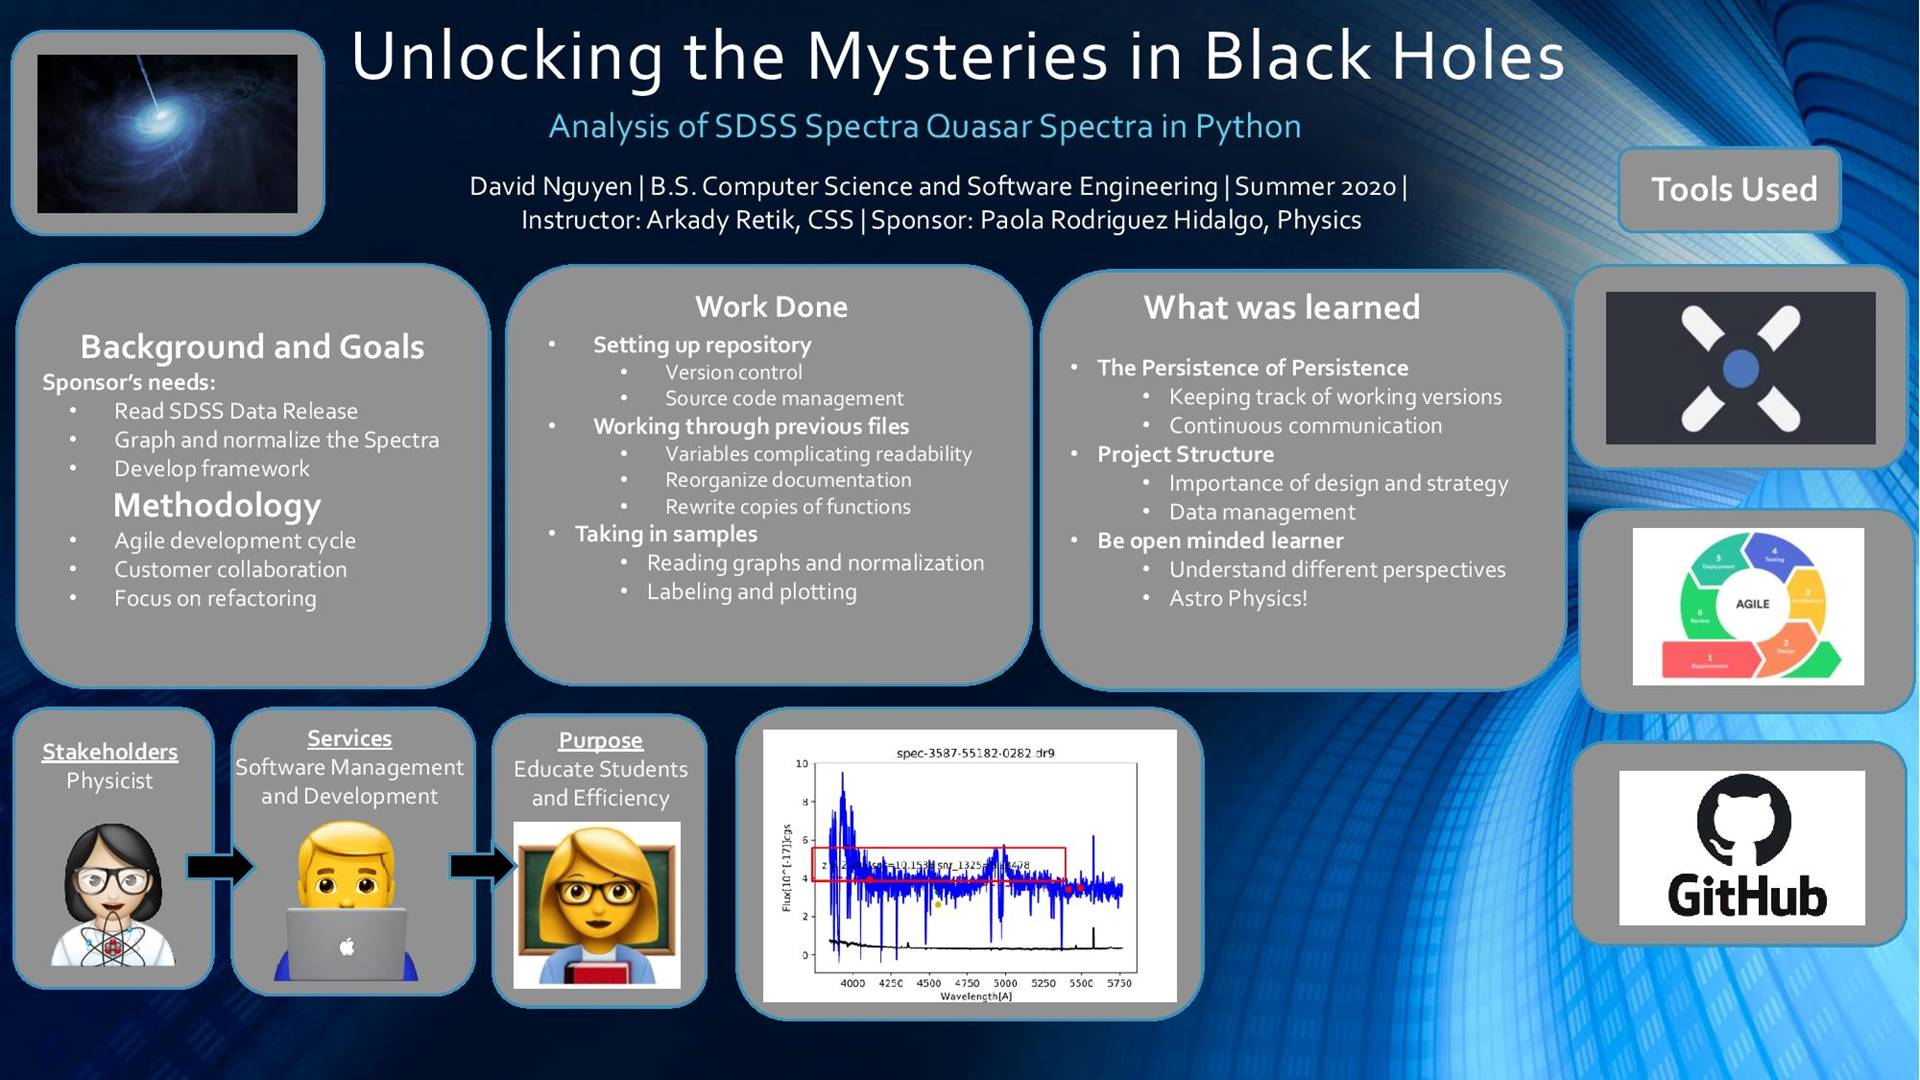
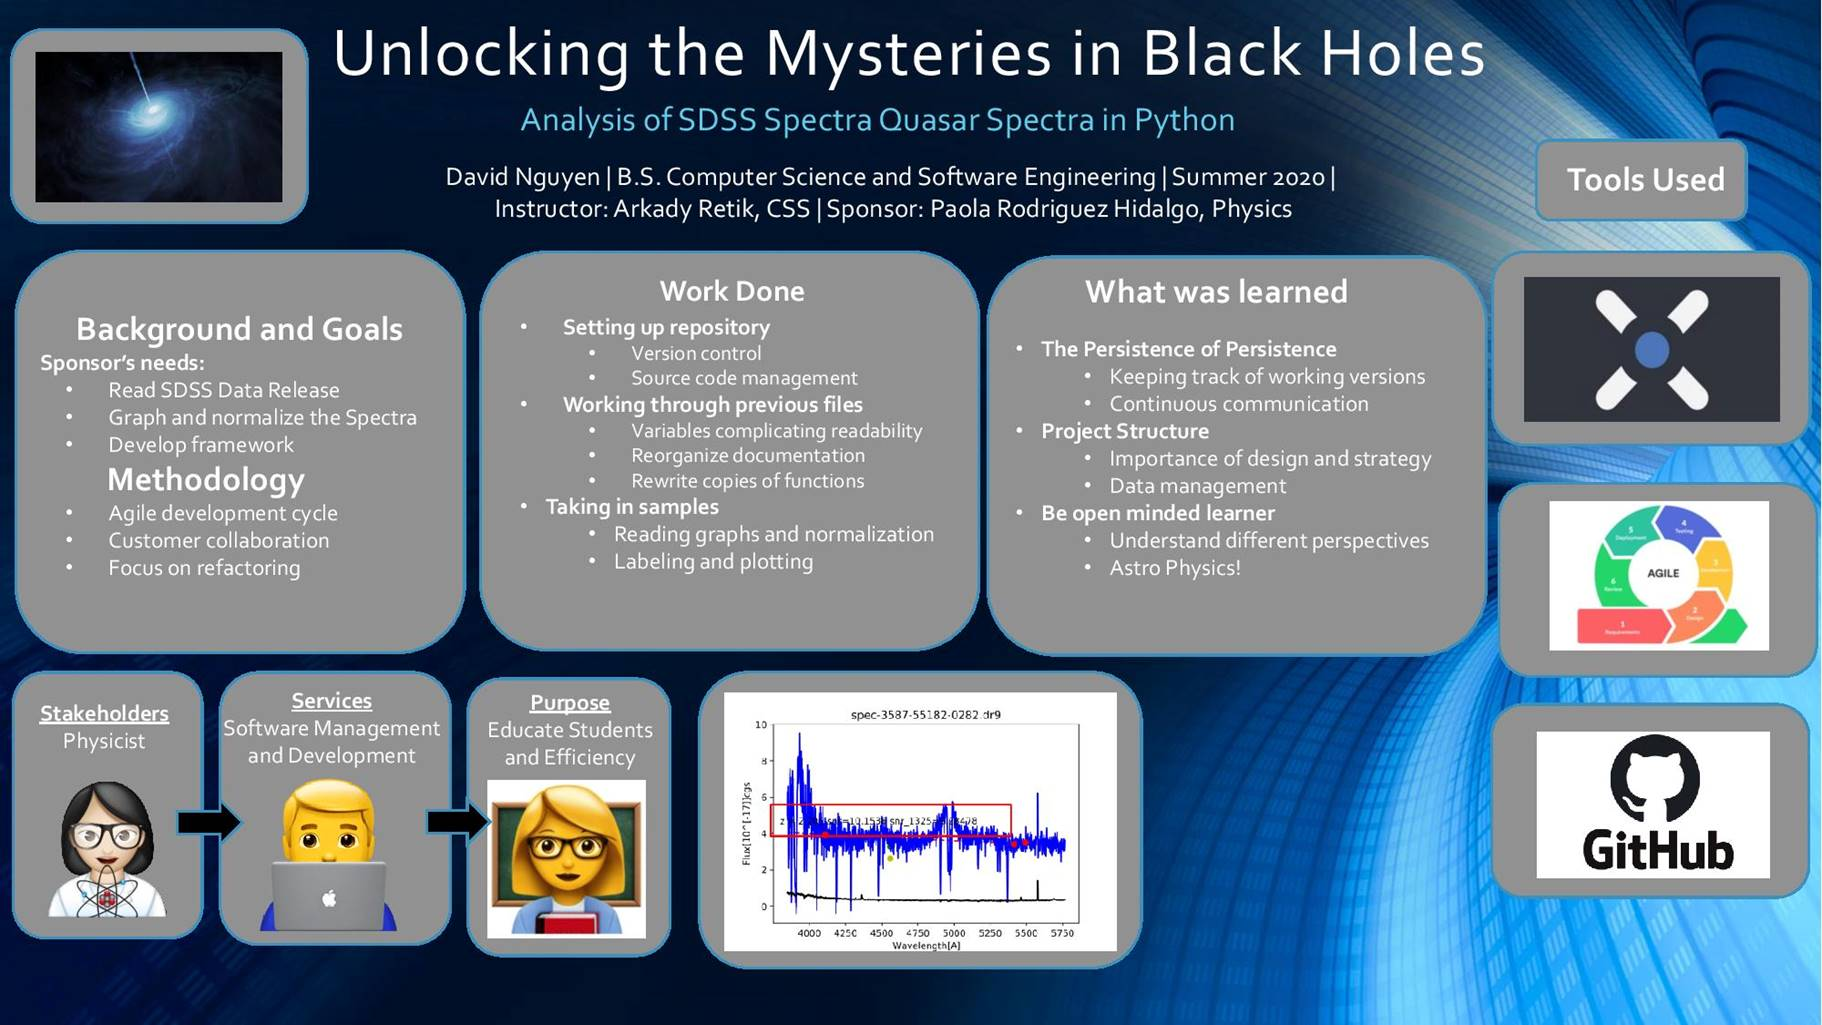
Remove question marks, fix title

Changed region(s): [[0.4303, 0.7805, 0.584, 0.9054], [0.5532, 0.8741, 0.584, 0.9054]]

diff --git a/csse/abstract/david-nguyen/index.html b/csse/abstract/david-nguyen/index.html
@@ -22,16 +22,16 @@ w\:* {behavior:url(#default#VML);}
  <o:DocumentProperties>
   <o:Author>Max Nguyen</o:Author>
   <o:LastAuthor>Max Nguyen</o:LastAuthor>
-  <o:Revision>9</o:Revision>
-  <o:TotalTime>70</o:TotalTime>
+  <o:Revision>11</o:Revision>
+  <o:TotalTime>73</o:TotalTime>
   <o:Created>2020-08-18T10:34:00Z</o:Created>
-  <o:LastSaved>2020-08-18T20:06:00Z</o:LastSaved>
+  <o:LastSaved>2020-08-20T07:27:00Z</o:LastSaved>
   <o:Pages>1</o:Pages>
-  <o:Words>370</o:Words>
-  <o:Characters>2113</o:Characters>
+  <o:Words>371</o:Words>
+  <o:Characters>2117</o:Characters>
   <o:Lines>17</o:Lines>
   <o:Paragraphs>4</o:Paragraphs>
-  <o:CharactersWithSpaces>2479</o:CharactersWithSpaces>
+  <o:CharactersWithSpaces>2484</o:CharactersWithSpaces>
   <o:Version>16.00</o:Version>
  </o:DocumentProperties>
  <o:OfficeDocumentSettings>
@@ -42,11 +42,8 @@ w\:* {behavior:url(#default#VML);}
 <link rel=colorSchemeMapping href="index_files/colorschememapping.xml">
 <!--[if gte mso 9]><xml>
  <w:WordDocument>
-  <w:Zoom>60</w:Zoom>
-  <w:DontDisplayPageBoundaries/>
+  <w:Zoom>70</w:Zoom>
   <w:DisplayBackgroundShape/>
-  <w:SpellingState>Clean</w:SpellingState>
-  <w:GrammarState>Clean</w:GrammarState>
   <w:TrackMoves>false</w:TrackMoves>
   <w:TrackFormatting/>
   <w:PunctuationKerning/>
@@ -734,15 +731,13 @@ p.msonormal0, li.msonormal0, div.msonormal0
 	font-family:"Times New Roman",serif;
 	mso-fareast-font-family:"Times New Roman";
 	mso-fareast-theme-font:minor-fareast;}
-span.GramE
-	{mso-style-name:"";
-	mso-gram-e:yes;}
 .MsoChpDefault
 	{mso-style-type:export-only;
 	mso-default-props:yes;
 	font-size:10.0pt;
 	mso-ansi-font-size:10.0pt;
 	mso-bidi-font-size:10.0pt;
+	font-family:"Calibri",sans-serif;
 	mso-ascii-font-family:Calibri;
 	mso-ascii-theme-font:minor-latin;
 	mso-fareast-font-family:Calibri;
@@ -890,8 +885,8 @@ Glegoo'><o:p></o:p></span></p>
   <p class=MsoNormal align=center style='margin-bottom:0in;text-align:center;
   line-height:normal'><b><span style='font-size:14.0pt'>David Nguyen<o:p></o:p></span></b></p>
   <p class=MsoNormal align=center style='margin-bottom:0in;text-align:center;
-  line-height:normal'><span style='font-size:14.0pt;mso-bidi-font-style:italic'>&quot;Host
-  Support Engine for Werewolf Bot&quot;<o:p></o:p></span></p>
+  line-height:normal'><span style='font-size:14.0pt;mso-bidi-font-style:italic'>&quot;Unlocking
+  the Mysteries in Black Holes&quot;<o:p></o:p></span></p>
   <p class=MsoNormal align=center style='text-align:center;background:lightyellow'><span
   style='font-size:12.0pt;line-height:105%;color:black;mso-color-alt:windowtext;
   mso-bidi-font-style:italic'>(</span><span style='color:black;mso-color-alt:
@@ -921,13 +916,12 @@ Glegoo'><o:p></o:p></span></p>
   style='font-size:14.0pt'>Abstract</span></u><span style='font-size:14.0pt'><o:p></o:p></span></p>
   <p class=MsoNormal align=center style='margin-top:12.0pt;margin-right:46.5pt;
   margin-bottom:0in;margin-left:48.5pt;text-align:center;line-height:normal'><span
-  style='font-size:14.0pt'>The Capstone is a part of a partnership between CSS
-  and Physics departments. The objective of this capstone project was to
-  develop a computational infrastructure by rebuilding the programming tools
-  used for graphing and normalizing Outflows in SDSS Quasars. The issue is that
-  the original files of the tools are not up to date with the latest SDSS
-  database and needs to be reorganized, refactored, and rewritten in some
-  cases.<o:p></o:p></span></p>
+  style='font-size:14.0pt'>The Capstone is a part of a partnership between CSS and
+  Physics departments. The objective of this capstone project was to develop a
+  computational infrastructure by rebuilding the programming tools used for
+  graphing and normalizing Outflows in SDSS Quasars. The issue is that the
+  original files of the tools are not up to date with the latest SDSS database
+  and needs to be reorganized, refactored, and rewritten in some cases.<o:p></o:p></span></p>
   <p class=MsoNormal align=center style='margin-top:12.0pt;margin-right:46.5pt;
   margin-bottom:0in;margin-left:48.5pt;text-align:center;line-height:normal'><span
   style='font-size:14.0pt'>The objective of this capstone project was to
@@ -960,34 +954,36 @@ Glegoo'><o:p></o:p></span></p>
   would be provided in a document that could be worked on as a TODO list.<o:p></o:p></span></p>
   <p class=MsoNormal align=center style='margin-top:12.0pt;margin-right:46.5pt;
   margin-bottom:0in;margin-left:48.5pt;text-align:center;line-height:normal'><span
-  style='font-size:14.0pt'>The result of this project was a complete
-  refactoring of the Spectra Normalization code so that it can compile and be
-  easy to comprehend. Another result was that I developed the road path for the
-  future students to initially be able to use the tool and continue development
-  without too <span class=GramE>much</span> difficulties.<o:p></o:p></span></p>
-  <p class=MsoNormal align=center style='margin-top:0in;margin-right:46.5pt;
-  margin-bottom:0in;margin-left:48.5pt;text-align:center;line-height:normal'><span
-  style='font-size:12.0pt'><o:p>&nbsp;</o:p></span></p>
-  <p class=MsoNormal style='margin-top:0in;margin-right:46.5pt;margin-bottom:
-  0in;margin-left:48.5pt;line-height:normal'><o:p>&nbsp;</o:p></p>
+  style='font-size:14.0pt'>The result of this project was a complete refactoring
+  of the Spectra Normalization code so that it can compile and be easy to
+  comprehend. Another result was that I developed the road path for the future
+  students to initially be able to use the tool and continue development
+  without too much difficulties.</span></p>
   </td>
  </tr>
- <tr style='mso-yfti-irow:2;mso-yfti-lastrow:yes'>
+ <tr style='mso-yfti-irow:2'>
   <td width=951 valign=top style='width:713.3pt;padding:0in 5.4pt 0in 5.4pt'></td>
+ </tr>
+ <tr style='mso-yfti-irow:3;mso-yfti-lastrow:yes'>
+  <td width=951 valign=top style='width:713.3pt;padding:0in 5.4pt 0in 5.4pt'>
+  <p class=MsoNormal><o:p>&nbsp;</o:p></p>
+  <p class=MsoNormal><o:p>&nbsp;</o:p></p>
+  <p class=MsoNormal><o:p>&nbsp;</o:p></p>
+  <p class=MsoNormal align=center style='text-align:center'><span
+  style='font-size:9.0pt;line-height:105%;font-family:"Times New Roman",serif;
+  mso-fareast-font-family:"Times New Roman";mso-no-proof:yes'><!--[if gte vml 1]><v:shape
+   id="Picture_x0020_4" o:spid="_x0000_i1025" type="#_x0000_t75" style='width:911pt;
+   height:512.5pt;visibility:visible;mso-wrap-style:square'>
+   <v:imagedata src="index_files/image007.jpg" o:title=""/>
+  </v:shape><![endif]--><![if !vml]><img border=0 width=1215 height=683
+  src="index_files/image008.jpg" v:shapes="Picture_x0020_4"><![endif]></span></p>
+  </td>
  </tr>
 </table>
 
 </div>
 
-<p class=MsoNormal align=center style='text-align:center'><span
-style='font-size:9.0pt;line-height:105%;font-family:"Times New Roman",serif;
-mso-fareast-font-family:"Times New Roman";color:white;mso-color-alt:windowtext;
-mso-no-proof:yes'><!--[if gte vml 1]><v:shape id="Picture_x0020_4" o:spid="_x0000_i1025"
- type="#_x0000_t75" style='width:960pt;height:540pt;visibility:visible;
- mso-wrap-style:square'>
- <v:imagedata src="index_files/image007.jpg" o:title=""/>
-</v:shape><![endif]--><![if !vml]><img border=0 width=1280 height=720
-src="index_files/image008.jpg" v:shapes="Picture_x0020_4"><![endif]></span><b><o:p></o:p></b></p>
+<p class=MsoNormal align=center style='text-align:center'><b><o:p>&nbsp;</o:p></b></p>
 
 <p class=MsoNormal><o:p>&nbsp;</o:p></p>
 
@@ -1012,7 +1008,7 @@ style='font-size:12.0pt;font-family:"Times New Roman",serif;mso-fareast-font-fam
 <p class=MsoNormal align=right style='margin-top:0in;margin-right:53.0pt;
 margin-bottom:0in;margin-left:139.5pt;text-align:right;line-height:normal'><span
 style='font-size:9.0pt;font-family:"Times New Roman",serif;mso-fareast-font-family:
-"Times New Roman"'>Updated August 18, 2020, 13:06<o:p></o:p></span></p>
+"Times New Roman"'>Updated August 20, 2020, 00:28<o:p></o:p></span></p>
 
 <p class=MsoNormal><o:p>&nbsp;</o:p></p>
 
